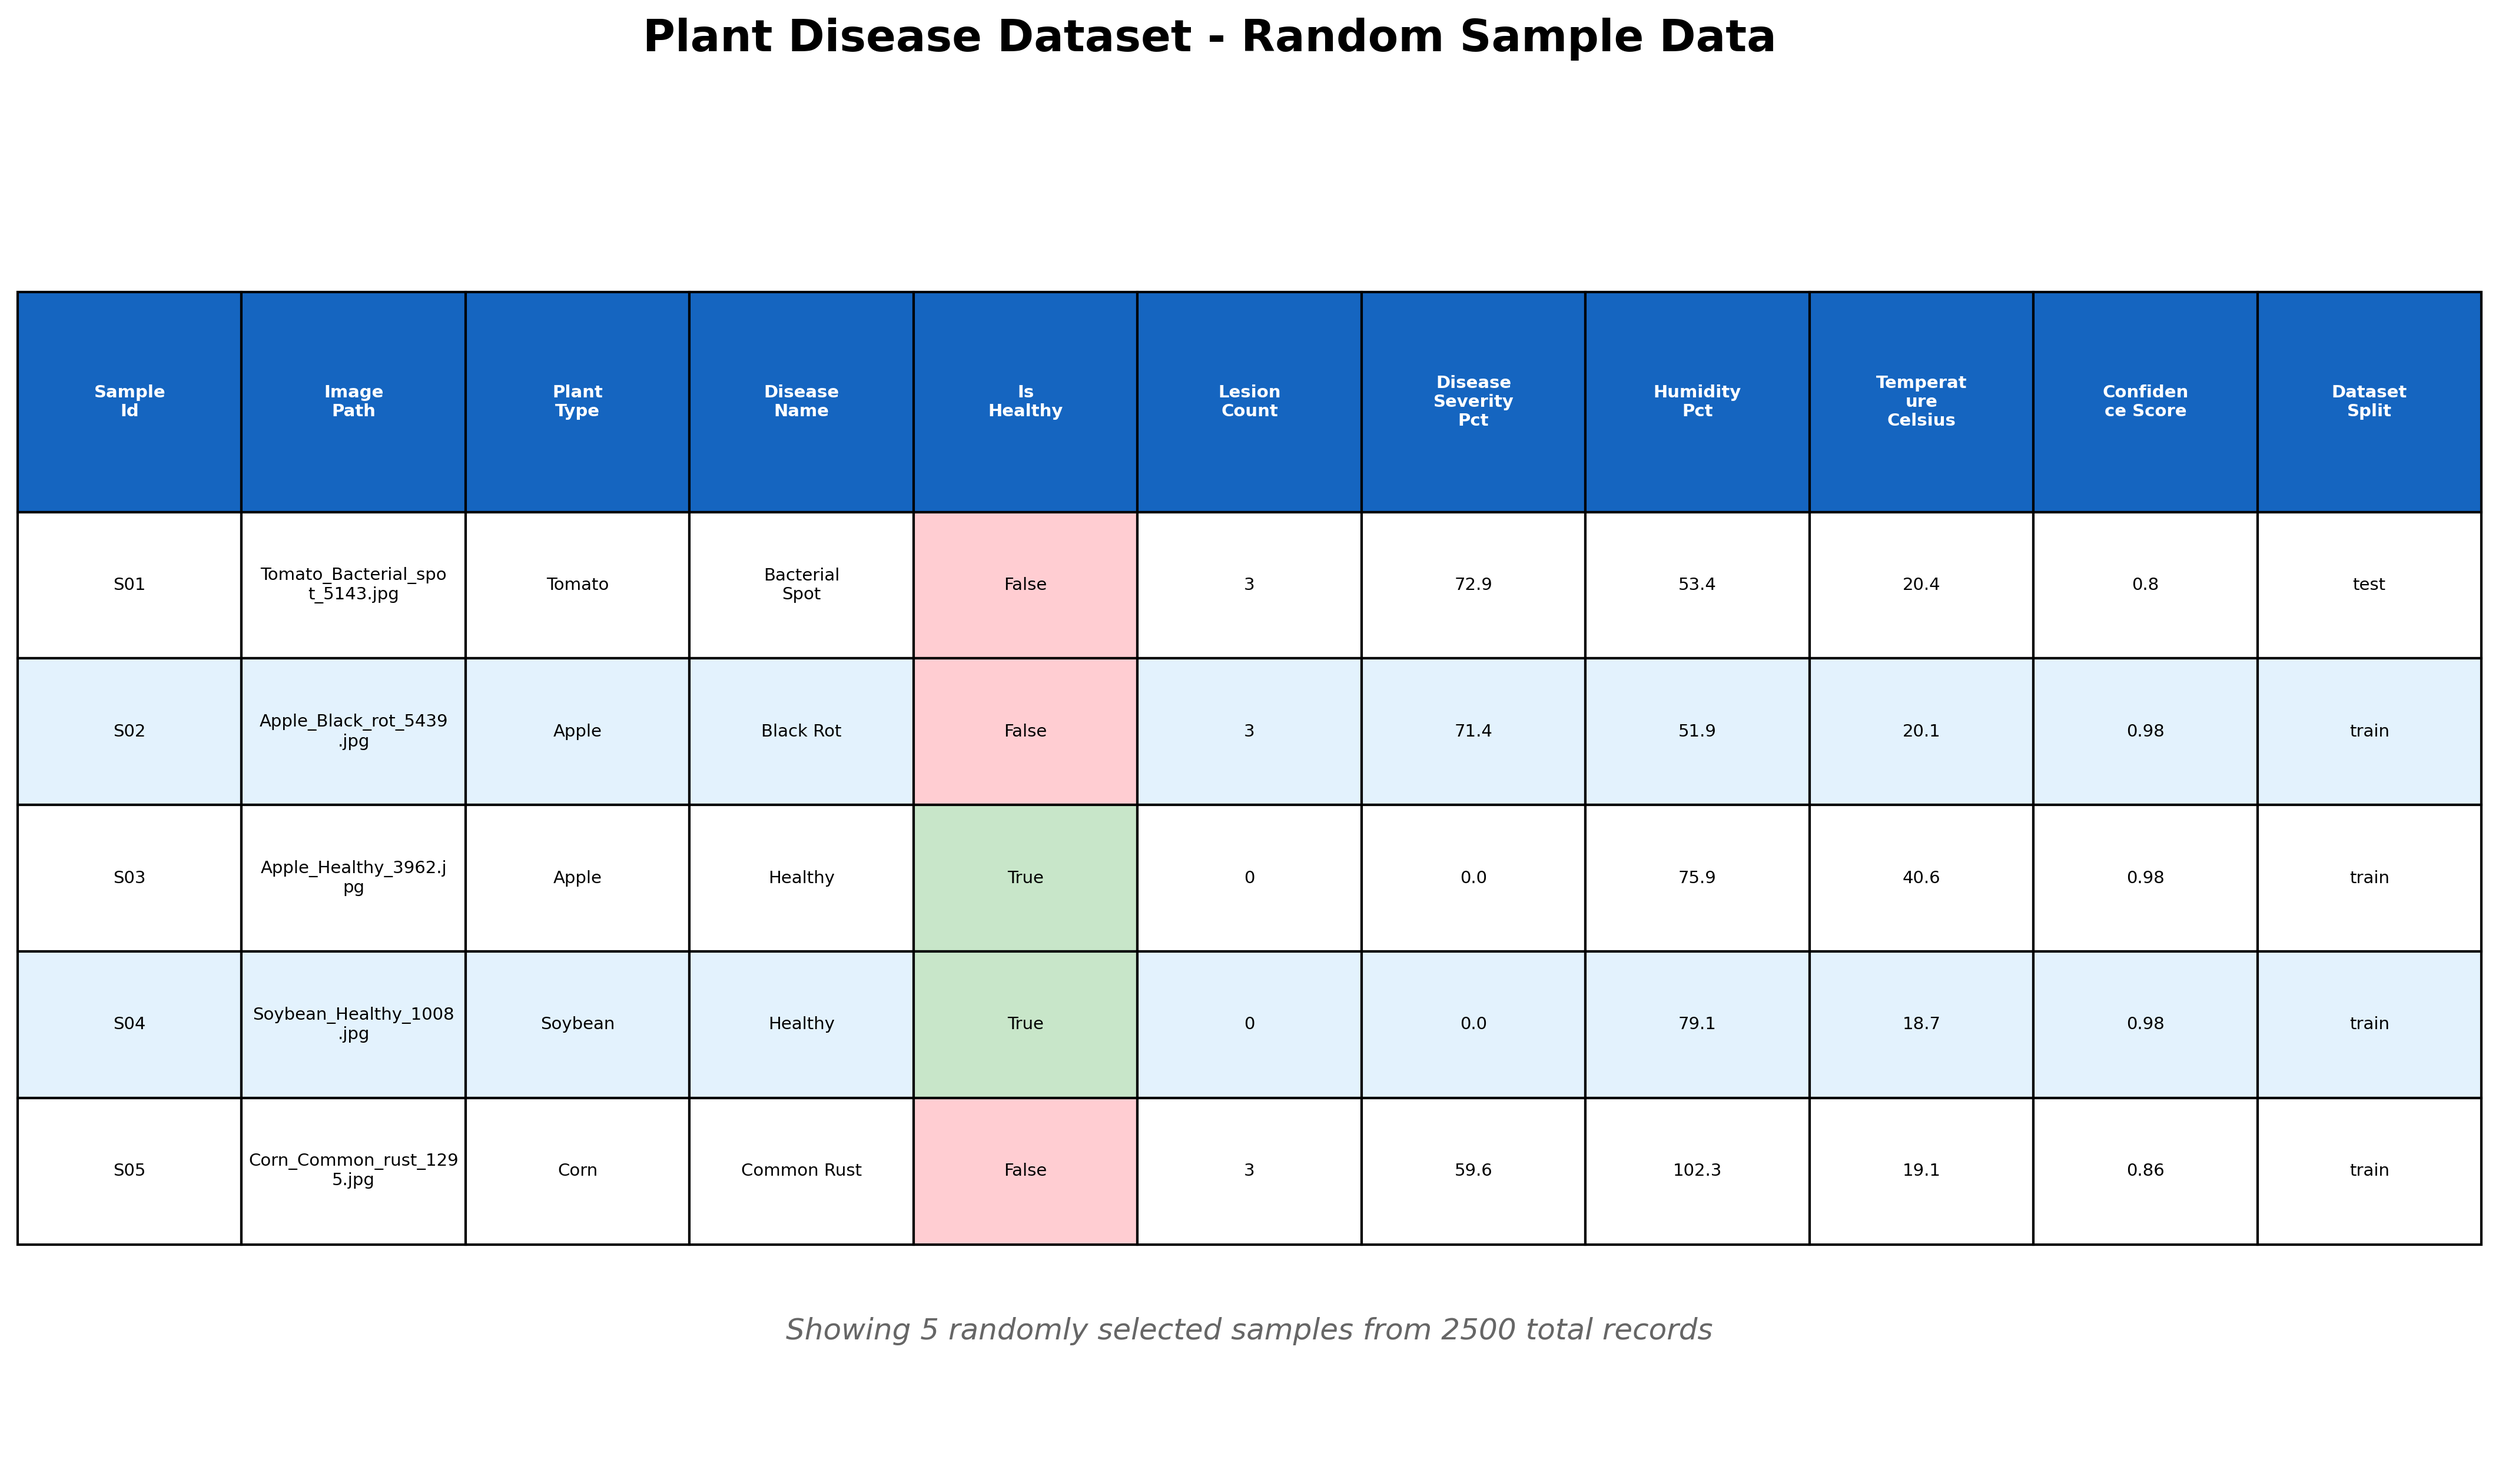
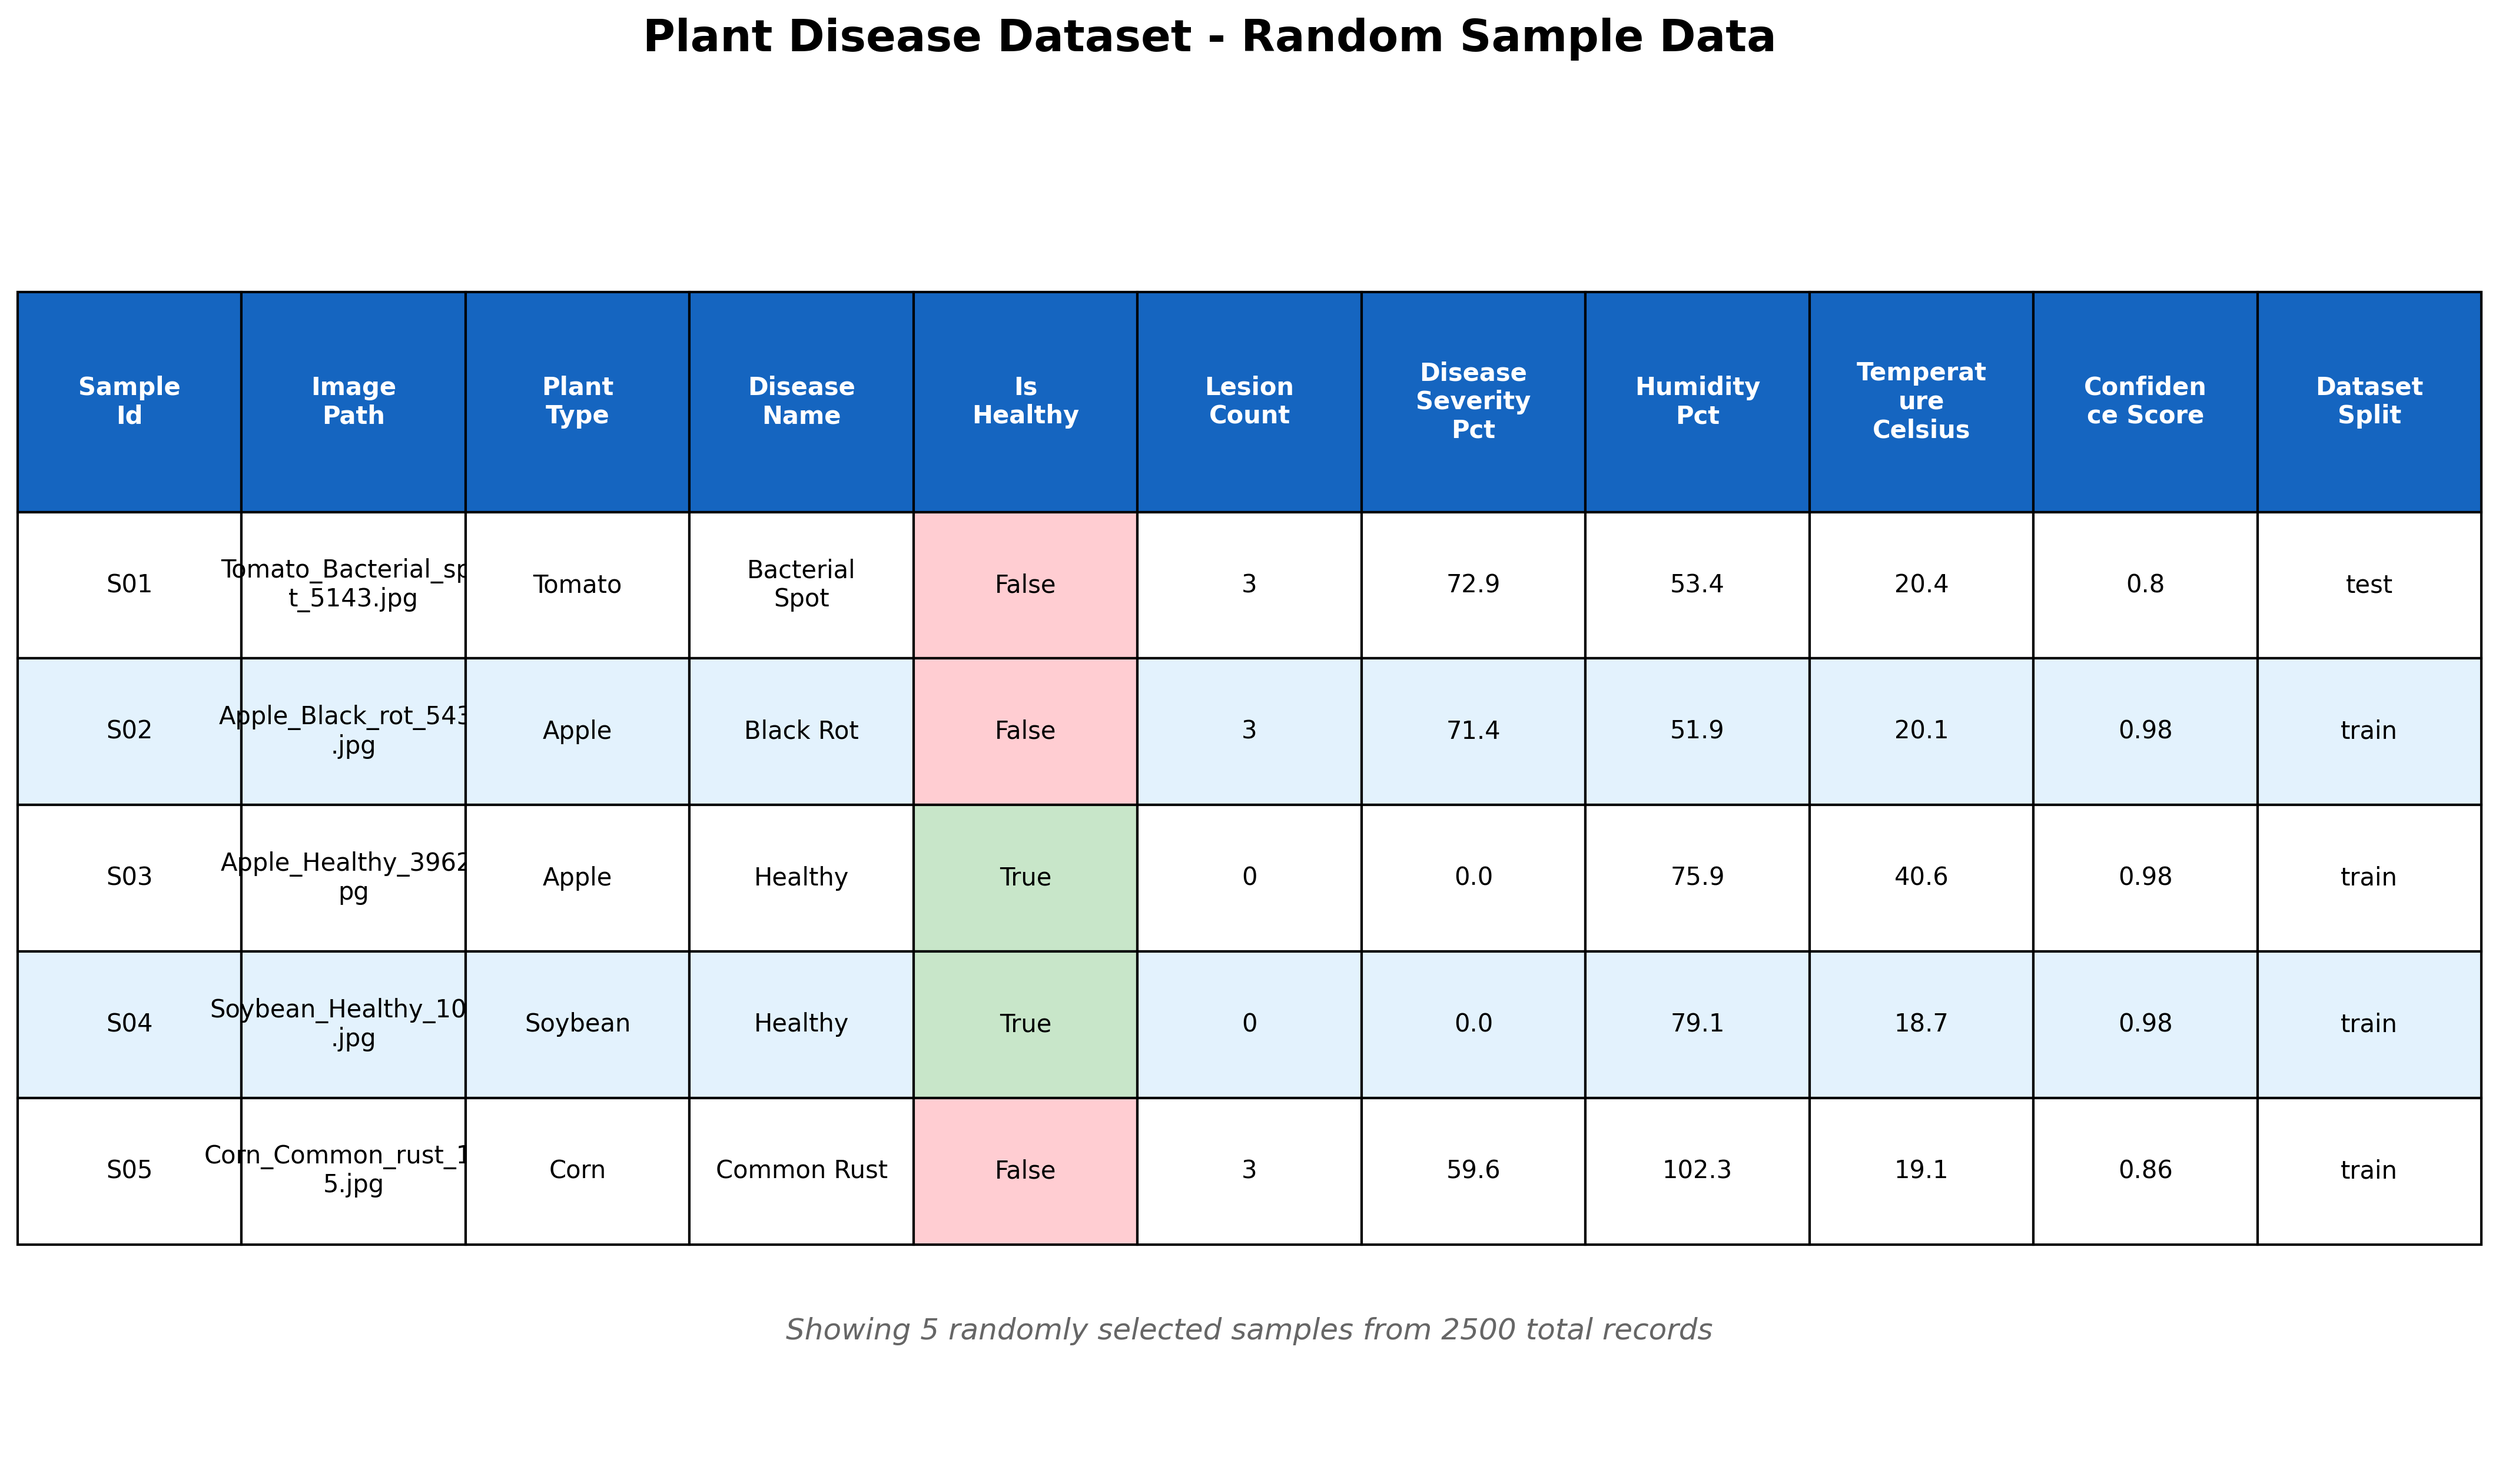
refactor: Improve readability of detailed random rows image
This commit enhances the visual presentation of the detailed random rows screenshot by increasing the font size and adjusting the table scale. These changes improve the readability of the generated image.

diff --git a/outputs/generate_dataset_screenshots.py b/outputs/generate_dataset_screenshots.py
@@ -327,8 +327,8 @@ Healthy vs Diseased: {df['is_healthy'].sum()} healthy, {len(df) - df['is_healthy
                     bbox=[0, 0.15, 1, 0.7])
     
     table.auto_set_font_size(False)
-    table.set_fontsize(7)
-    table.scale(1, 3.5)  # Increased height for wrapped text
+    table.set_fontsize(10)  # Increased from 7 to 10 for better readability
+    table.scale(1, 3.8)  # Slightly increased height for larger text
     
     # Professional styling
     # Header row
